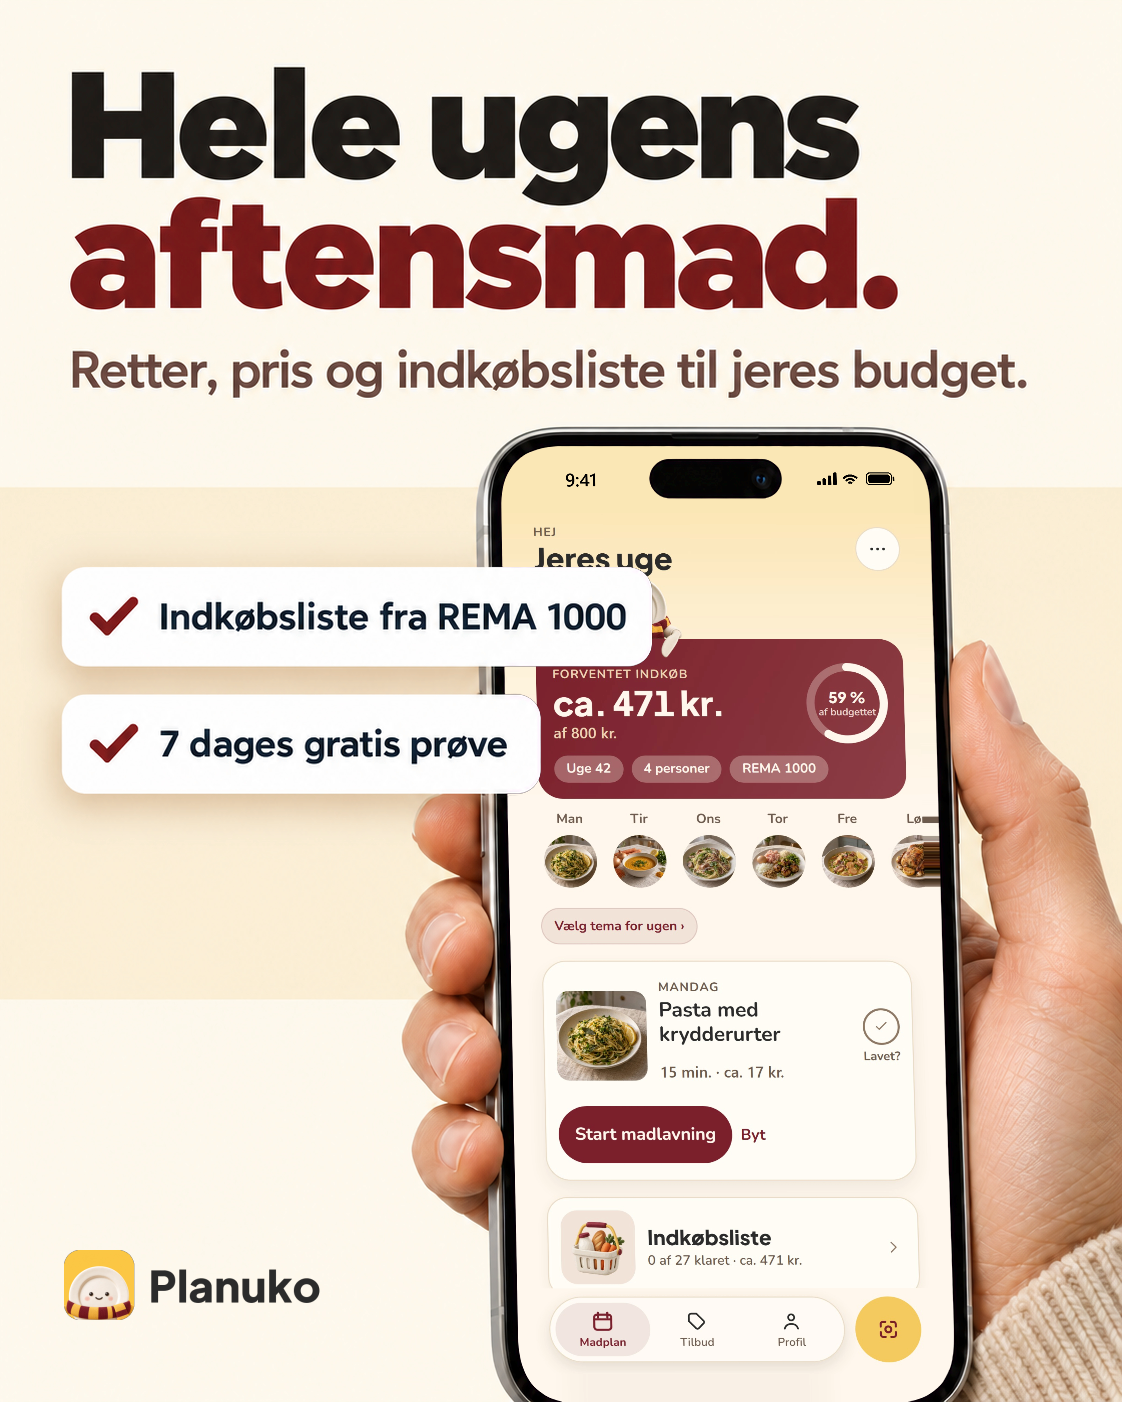
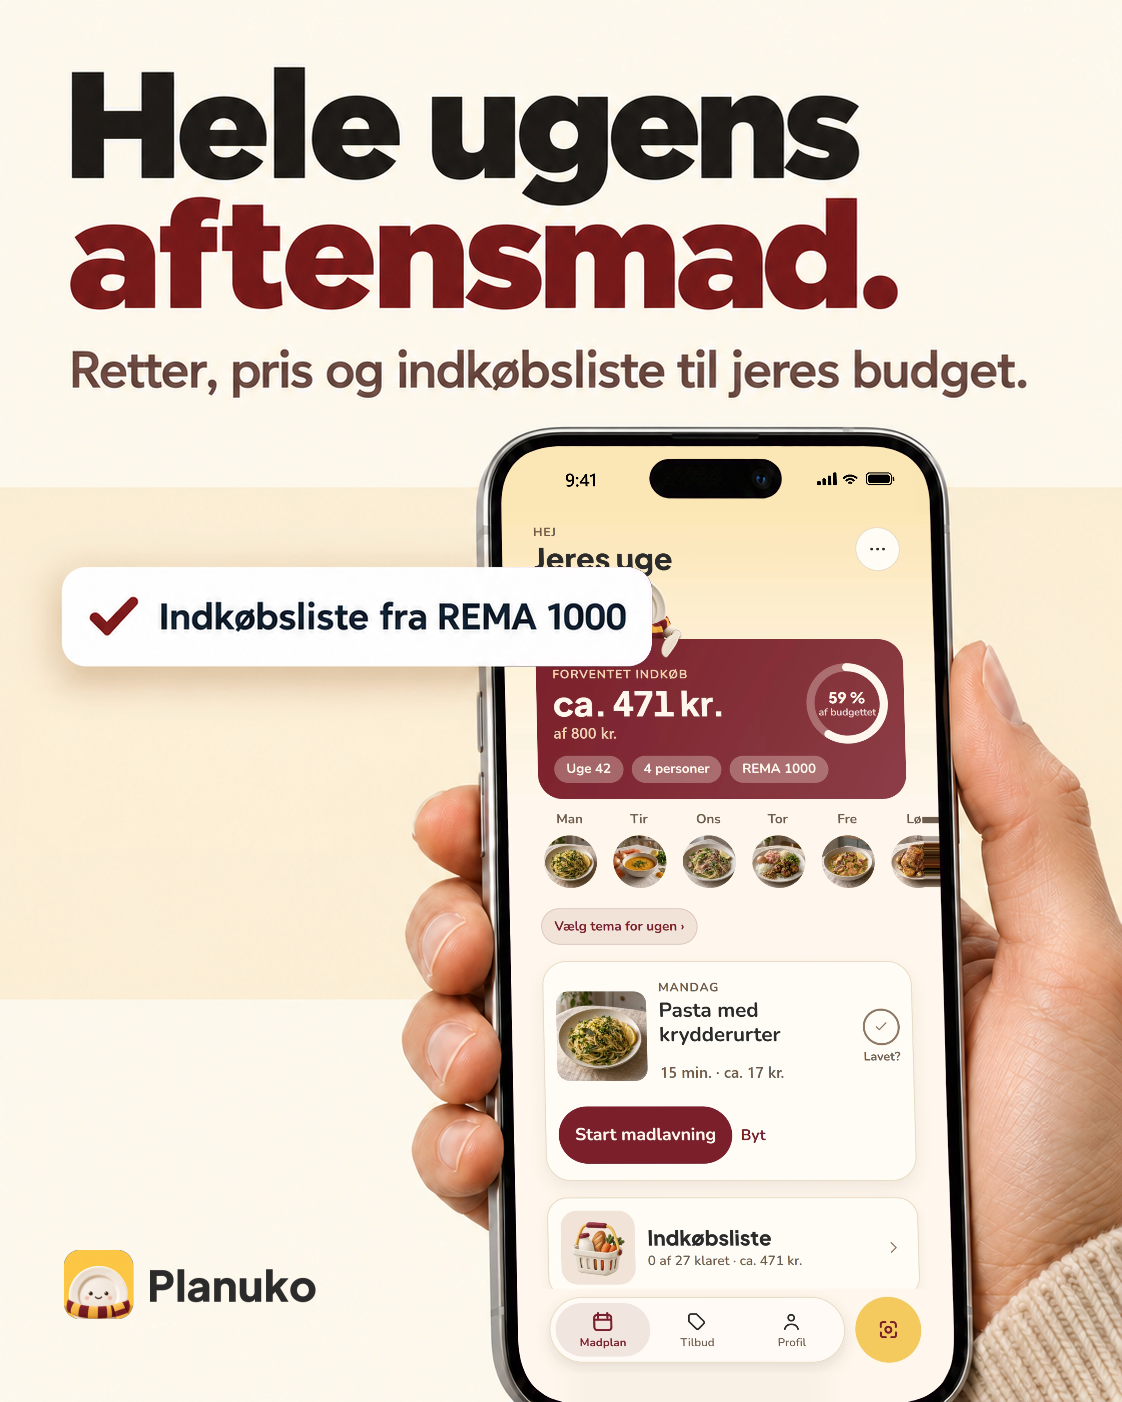
annonce-bibliotek: Planuko haand uden 7-dages-proeve-chip

diff --git a/annonce-bibliotek/README.md b/annonce-bibliotek/README.md
@@ -24,7 +24,7 @@ Alt fra annonce-arbejdet 16/10. Bliver ikke deployet (`.vercelignore`). HQ viser
 | `kinly-d-udkast.png` | Laptop + telefon | grøn = laptop, magenta = telefon | `faerdige/kinly/udkast.png` |
 | `kinly-e-undersider.png` / `kinly-ek-undersider.png` | Tre telefoner, én pr. ydelse | magenta, grøn, cyan | `faerdige/*/undersider.png` |
 | `planuko-p1-budget.png` | To telefoner, budget | magenta + grøn | `faerdige/planuko/budget.png` |
-| `planuko-p2-haand.png` | Hånd, creme | magenta | `faerdige/planuko/haand.png`. Chip "7 dages gratis prøve" skal være "7 dage gratis på årsplanen" (prøve kun på årsplan) |
+| `planuko-p2-haand.png` | Hånd, creme | magenta | `faerdige/planuko/haand.png`. Prøve-chippen fjernet 16/10 på Lucas' ordre (prøve kun på årsplan). Indsæt: `magenta=planuko-skaerme/skaerm-A-uge.png logo=planuko-skaerme/logo-moerk.png@64,1250,256`. AI-hænder er ok for Planuko |
 
 ## Lav en ny variant med en anden skærm
 ```bash
